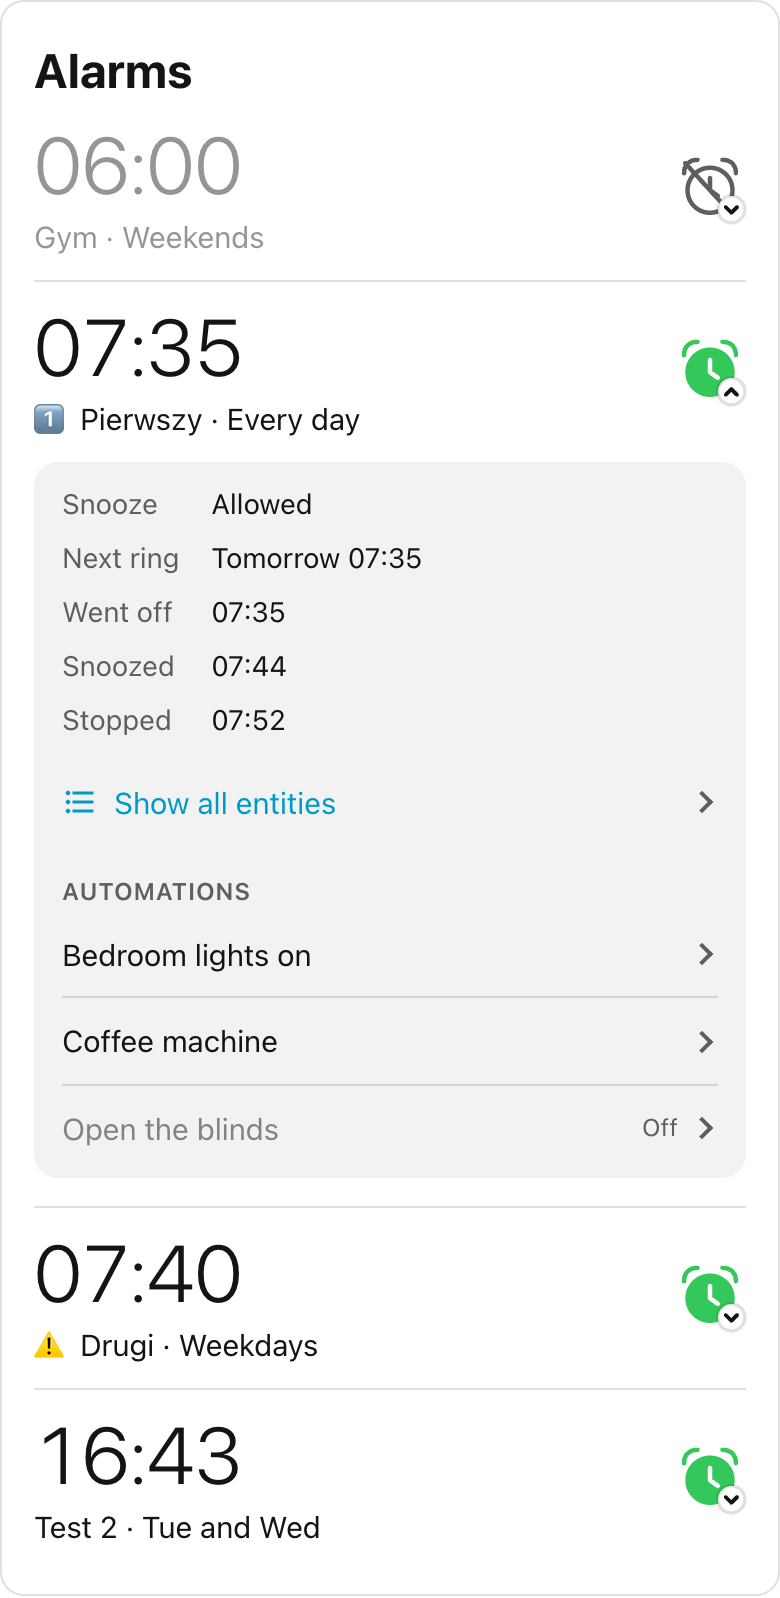
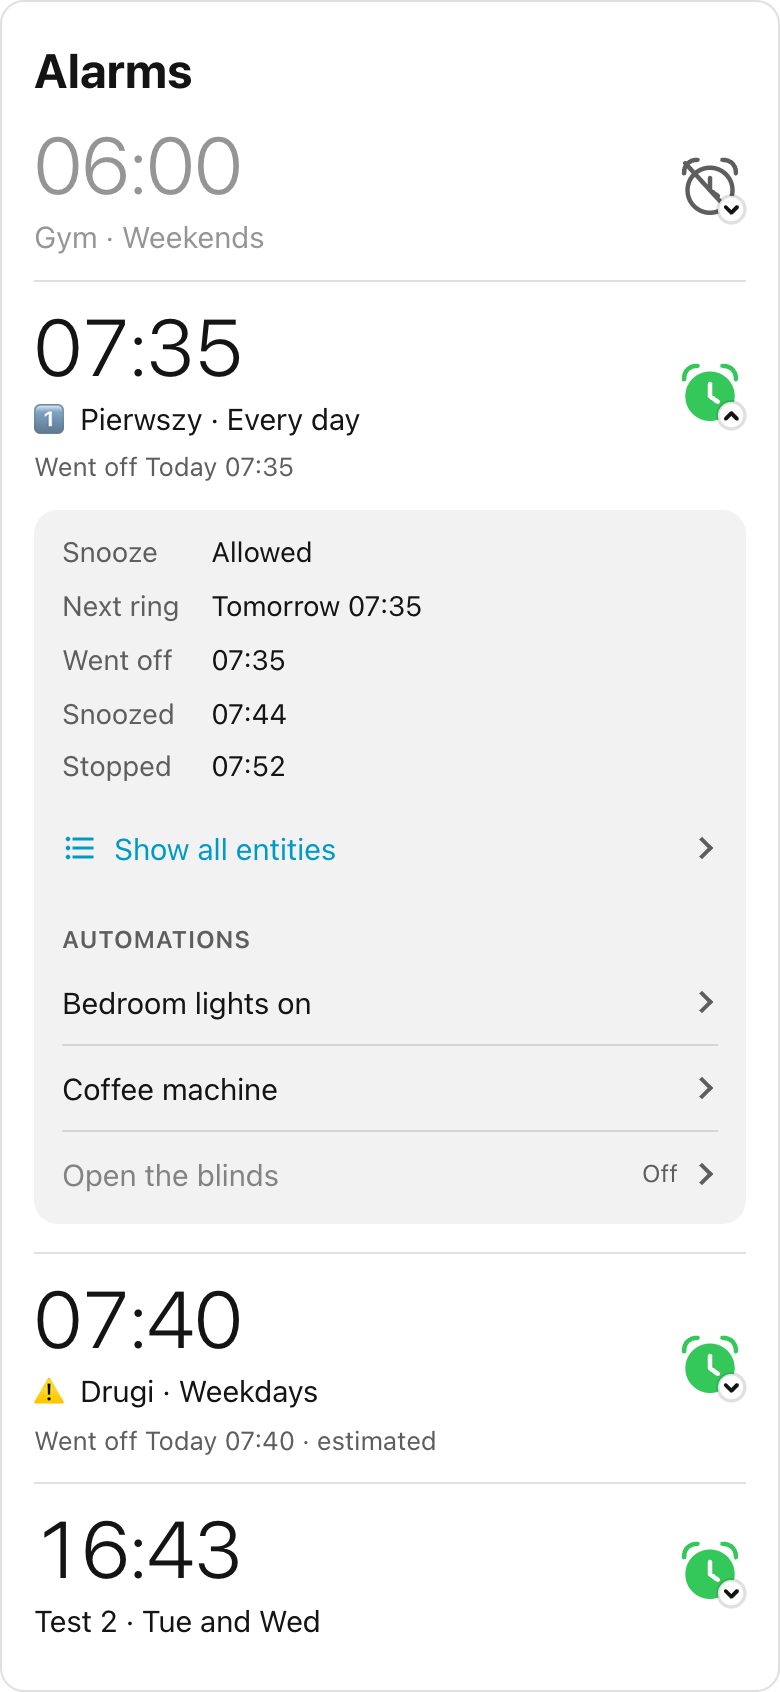
✨ Show when each alarm last went off on the alarms card (#54)

diff --git a/custom_components/iphone_alarms_sync/frontend/iphone-alarms-card.js b/custom_components/iphone_alarms_sync/frontend/iphone-alarms-card.js
@@ -15,7 +15,9 @@ const ALARM_EVENTS = [
   ["last_event_snoozed_at", "snoozed"],
   ["last_event_stopped_at", "stopped"],
 ];
-const ALARM_KEYS = ["alarm_id", "next_occurrence_datetime", ...ALARM_EVENTS.map(([key]) => key)];
+const ALARM_KEYS = ["alarm_id", "next_occurrence_datetime", "last_occurrence_datetime", ...ALARM_EVENTS.map(([key]) => key)];
+// A "goes off" from the phone this close after the scheduled time confirms that ring.
+const CONFIRM_WINDOW_MS = 5 * 60000;
 // Every text the card shows, by language. A language or key missing here falls back to English.
 const STRINGS = {
   en: {
@@ -51,6 +53,7 @@ const STRINGS = {
     next_ring: "Next ring",
     last_events: "Last events",
     none_yet: "None yet",
+    estimated: "estimated",
     show_all_entities: "Show all entities",
     automations: "Automations",
     loading: "Loading…",
@@ -97,6 +100,7 @@ const STRINGS = {
     next_ring: "Następny dzwonek",
     last_events: "Ostatnie zdarzenia",
     none_yet: "Jeszcze brak",
+    estimated: "szacowane",
     show_all_entities: "Pokaż wszystkie encje",
     automations: "Automatyzacje",
     loading: "Wczytywanie…",
@@ -210,6 +214,17 @@ function parseTime(value) {
   return Number.isNaN(date.getTime()) ? null : date;
 }
 
+/**
+ * When an alarm last rang: the phone's "goes off" event, or else the time it was
+ * set to ring, which Home Assistant only estimates. Null before either.
+ */
+export function lastRing(goesOffValue, scheduledValue) {
+  const confirmed = parseTime(goesOffValue);
+  const scheduled = parseTime(scheduledValue);
+  if (scheduled && !(confirmed && confirmed >= scheduled - CONFIRM_WINDOW_MS)) return { at: scheduled, estimated: true };
+  return confirmed ? { at: confirmed, estimated: false } : null;
+}
+
 /** A moment near now, short: "07:35", "Yesterday 07:35", "Tomorrow 07:35", "Mon 07:35" or "Nov 12". */
 export function formatEventTime(value, ctx, withToday = false) {
   const date = parseTime(value);
@@ -262,6 +277,7 @@ function readAlarm(alarm, states, t) {
     enabled: attrs.enabled !== false,
     allowsSnooze: attrs.allows_snooze !== false,
     repeat: attrs.repeats ? describeRepeat(attrs.repeat_days, t) : "",
+    lastRing: lastRing(states[alarm.entities.last_event_goes_off_at]?.state, states[alarm.entities.last_occurrence_datetime]?.state),
   };
 }
 
@@ -339,8 +355,9 @@ button:focus-visible { outline: 2px solid var(--primary-color); outline-offset: 
 .main { flex: 1; min-width: 0; }
 .time { display: block; font-size: var(--iphone-alarms-time-size, 2.5rem); font-weight: var(--iphone-alarms-time-weight, 300); line-height: 1.1; font-variant-numeric: tabular-nums; letter-spacing: -0.01em; color: var(--primary-text-color); }
 .period { margin-inline-start: 3px; font-size: 0.45em; font-weight: 400; }
-.subtitle { display: flex; align-items: center; gap: 6px; margin-top: 4px; overflow: hidden; font-size: 0.9375rem; line-height: 1.35; white-space: nowrap; color: var(--primary-text-color); }
+.subtitle { display: flex; align-items: center; gap: 6px; margin-top: 4px; overflow: hidden; font-size: 0.9375rem; line-height: 1.35; white-space: nowrap; flex-wrap: wrap; color: var(--primary-text-color); }
 .subtitle span { overflow: hidden; text-overflow: ellipsis; }
+.subtitle .last { flex-basis: 100%; font-size: 0.8125rem; color: var(--secondary-text-color); }
 .off .main { opacity: var(--iphone-alarms-disabled-opacity, 0.45); }
 .status { flex: none; width: 36px; height: 36px; overflow: visible; fill: none; stroke: var(--secondary-text-color); stroke-width: 2; stroke-linecap: round; stroke-linejoin: round; }
 .status.on { --clock: var(--iphone-alarms-on-color, #34c759); }
@@ -371,7 +388,7 @@ button:focus-visible { outline: 2px solid var(--primary-color); outline-offset: 
 .warning { margin: 12px 16px 0; padding: 8px 12px; border-radius: 8px; font-size: 0.8125rem; color: var(--primary-text-color); background: rgba(var(--rgb-warning-color, 255, 166, 0), 0.15); }
 @container (max-width: 300px) {
   .time { font-size: var(--iphone-alarms-time-size, 2rem); }
-  .subtitle { font-size: 0.8125rem; flex-wrap: wrap; white-space: normal; }
+  .subtitle { font-size: 0.8125rem; white-space: normal; }
   .subtitle span { overflow: visible; }
   /* Too narrow for two columns: each label above its value. */
   .info { grid-template-columns: minmax(0, 1fr); gap: 0; }
@@ -524,12 +541,16 @@ class IPhoneAlarmsCard extends HTMLElement {
         for (const alarm of group.alarms) {
           keys.add(alarm.key);
           const subtitle = [alarm.label, alarm.repeat].filter(Boolean).join(" · ");
+          const ring = alarm.lastRing;
+          const last = ring
+            ? [t.went_off, formatEventTime(ring.at, ctx, true), ring.estimated && `· ${t.estimated}`].filter(Boolean).join(" ")
+            : "";
           const status = alarm.enabled ? clockIcon("on", t.alarm_on) : clockIcon("off", t.alarm_off);
           html += this._item(
             alarm.key,
             alarm.enabled ? "" : "off",
             clockHtml(formatClock(alarm.hour, alarm.minute, ctx)),
-            `<span>${escape(subtitle)}</span>`,
+            `<span>${escape(subtitle)}</span>${last ? ` <span class="last">${escape(last)}</span>` : ""}`,
             status,
             () => this._alarmDetails(alarm, ctx),
           );

diff --git a/tests/frontend/card.test.js b/tests/frontend/card.test.js
@@ -5,7 +5,7 @@ import { test } from "node:test";
 import { card } from "./dom.js";
 import { makeHass, NOW, PHONE, SECOND_PHONE, TIME_ZONE } from "./fixtures.js";
 
-const { validateConfig, describeRepeat, formatClock, formatEventTime, buildIndex, selectAlarms, relatedItems, timeContext, strings } = card;
+const { validateConfig, describeRepeat, formatClock, formatEventTime, lastRing, buildIndex, selectAlarms, relatedItems, timeContext, strings } = card;
 const ctx = (overrides = {}) => ({ h12: false, timeZone: TIME_ZONE, now: NOW, t: strings(), ...overrides });
 const config = (overrides = {}) => validateConfig(overrides);
 
@@ -59,6 +59,20 @@ test("formatEventTime shows how old an event is", () => {
   // 23:30 UTC on the 23rd is already the 24th in Warsaw.
   assert.equal(formatEventTime("2026-11-23T23:30:00Z", ctx()), "00:30");
   for (const empty of [null, "unknown", "unavailable", "nonsense"]) assert.equal(formatEventTime(empty, ctx()), null);
+});
+
+test("lastRing prefers what the phone reported", () => {
+  const at = (iso, estimated) => ({ at: new Date(iso), estimated });
+  assert.equal(lastRing(null, "unknown"), null);
+  assert.deepEqual(lastRing("2026-11-09T07:37:00Z", null), at("2026-11-09T07:37:00Z", false));
+  // The alarm was due today, the phone last reported a ring on the 9th.
+  assert.deepEqual(lastRing("2026-11-09T07:37:00Z", "2026-11-24T06:35:00Z"), at("2026-11-24T06:35:00Z", true));
+  assert.deepEqual(lastRing(undefined, "2026-11-24T06:35:00Z"), at("2026-11-24T06:35:00Z", true));
+  // The phone's "goes off" a few seconds before or after the scheduled minute confirms it.
+  assert.deepEqual(lastRing("2026-11-24T06:34:56Z", "2026-11-24T06:35:00Z"), at("2026-11-24T06:34:56Z", false));
+  assert.deepEqual(lastRing("2026-11-24T06:36:10Z", "2026-11-24T06:35:00Z"), at("2026-11-24T06:36:10Z", false));
+  // A test event from the phone later in the day is the latest ring.
+  assert.deepEqual(lastRing("2026-11-24T11:36:59Z", "2026-11-24T06:35:00Z"), at("2026-11-24T11:36:59Z", false));
 });
 
 test("selectAlarms filters by phone and alarm", () => {

diff --git a/tests/frontend/preview.html b/tests/frontend/preview.html
@@ -73,6 +73,25 @@
         "no-phones": { hass: { phones: [] } },
         "filter-empty": { config: { devices: ["deleted_alarm"] } },
         "12h": { hass: { locale: { time_format: "12" } } },
+        "last-ring": {
+          hass: {
+            phones: [
+              {
+                ...PHONE,
+                alarms: [
+                  // Confirmed by the phone a moment after the scheduled minute.
+                  { id: "a1", label: "Confirmed", hour: 6, minute: 0, repeat_days: ["Tuesday"], last: "2026-11-24T05:00:00Z", events: { last_event_goes_off_at: "2026-11-24T05:00:40Z" } },
+                  // Only estimated, long ago, with a label too long for the row.
+                  { id: "a2", label: "A very long alarm label that does not fit on one line", hour: 6, minute: 30, repeat_days: ["Monday"], last: "2026-11-10T05:30:00Z" },
+                  // Off now, but it rang before.
+                  { id: "a3", label: "Old trip", hour: 4, minute: 15, enabled: false, last: "2026-11-20T03:15:00Z", events: { last_event_goes_off_at: "2026-11-20T03:15:05Z" } },
+                  // Never rang.
+                  { id: "a4", label: "New", hour: 21, minute: 0 },
+                ],
+              },
+            ],
+          },
+        },
       };
 
       const params = new URLSearchParams(location.search);

diff --git a/tests/frontend/fixtures.js b/tests/frontend/fixtures.js
@@ -43,6 +43,7 @@ export const PHONE = {
       minute: 35,
       repeat_days: EVERY_DAY,
       next: "2026-11-25T06:35:00Z",
+      last: "2026-11-24T06:35:00Z",
       events: {
         last_event_goes_off_at: "2026-11-24T06:35:00Z",
         last_event_snoozed_at: "2026-11-24T06:44:00Z",
@@ -57,6 +58,8 @@ export const PHONE = {
       minute: 40,
       repeat_days: WEEKDAYS,
       next: "2026-11-25T06:40:00Z",
+      // Rang today, but only yesterday's "goes off" reached Home Assistant.
+      last: "2026-11-24T06:40:00Z",
       events: { last_event_goes_off_at: "2026-11-23T06:40:00Z" },
       automations: MORNING.map((name) => `automation.${slug(name)}`),
     },
@@ -123,6 +126,7 @@ export function makeHass({ phones = [PHONE], locale = {}, callWS } = {}) {
         allows_snooze: alarm.allows_snooze ?? true,
       });
       add(`sensor.${base}_next_occurrence_datetime`, alarm.id, "next_occurrence_datetime", alarm.next);
+      add(`sensor.${base}_last_occurrence_datetime`, alarm.id, "last_occurrence_datetime", alarm.last);
       for (const key of ["last_event_goes_off_at", "last_event_snoozed_at", "last_event_stopped_at"]) {
         add(`sensor.${base}_${key}`, alarm.id, key, alarm.events?.[key]);
       }

diff --git a/tests/frontend/card.dom.test.js b/tests/frontend/card.dom.test.js
@@ -29,8 +29,8 @@ test("lists the alarms like the Clock app", () => {
   assert.deepEqual($$(el, ".time").map(text), ["06:00", "07:35", "07:40", "16:43"]);
   assert.deepEqual($$(el, ".subtitle").map(text), [
     "Gym · Weekends",
-    "1⃣ Pierwszy · Every day",
-    "⚠ Drugi · Weekdays",
+    "1⃣ Pierwszy · Every day Went off Today 07:35",
+    "⚠ Drugi · Weekdays Went off Today 07:40 · estimated",
     "Test 2 · Tue and Wed",
   ]);
   assert.deepEqual($$(el, ".status").map((s) => s.getAttribute("aria-label")), ["Off", "On", "On", "On"]);

diff --git a/docs/dashboard-card.md b/docs/dashboard-card.md
@@ -9,7 +9,7 @@ The **iPhone Alarms** card lists your alarms the way the Clock app does. It is r
   </picture>
 </p>
 
-- **Alarms**: every alarm with its time, label and repeat days. The clock on the right is green when the alarm is on, and crossed out, with grayed-out text, when it is off. The arrow in its corner shows whether the alarm is open.
+- **Alarms**: every alarm with its time, label and repeat days, and below them when it last went off. The clock on the right is green when the alarm is on, and crossed out, with grayed-out text, when it is off. The arrow in its corner shows whether the alarm is open.
 - **Tap an alarm** for the rest: whether snooze is allowed, when it rings next, when it last went off, was snoozed and was stopped, and the automations and scripts that use it. Tap an automation to open it. Admins also get **Show all entities**, the alarm's device page in Settings with its entities and history.
 
 ## Add the card
@@ -63,6 +63,7 @@ devices:
 
 - **Alarms** come from the Sync shortcut, so the card shows the state of the last sync.
 - The **last events** come from the [event shortcuts](shortcuts.md). Without them, an open alarm shows *Last events: None yet*.
+- **Went off** under an alarm is the alarm's own *Goes Off* event from the phone. Without that shortcut, or when its last event is older than the alarm's last scheduled ring, the card shows that ring time marked *estimated*: Home Assistant only knows the alarm was set to ring then.
 - The card shows no Sleep | Wake Up schedule: iOS doesn't share it with Shortcuts. The phone's sleep events still arrive as entities and device triggers, for automations and the Logbook card below.
 - Times follow your Home Assistant profile: 12 or 24 hours, and the server's or the browser's time zone.
 
